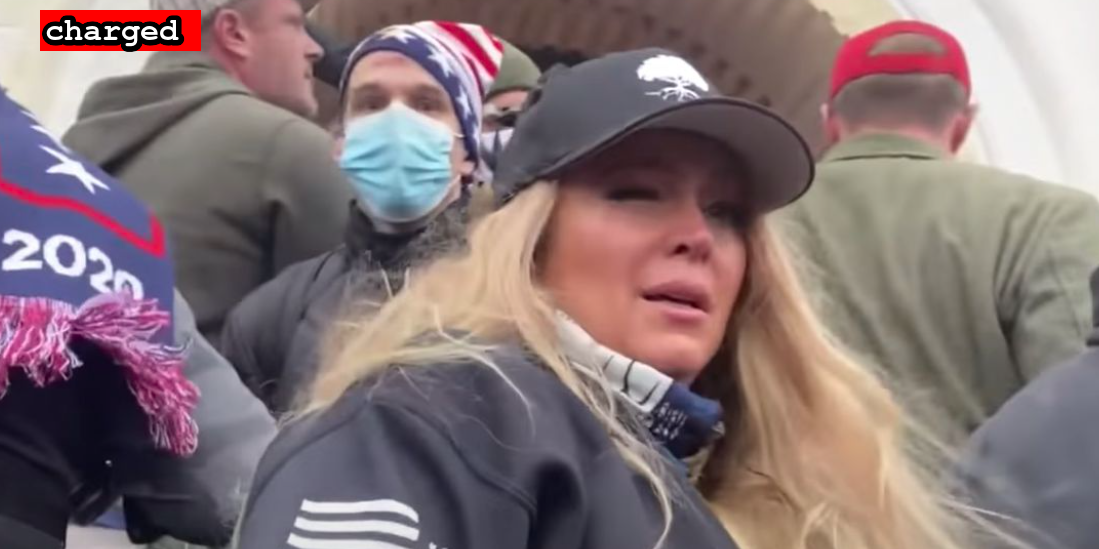
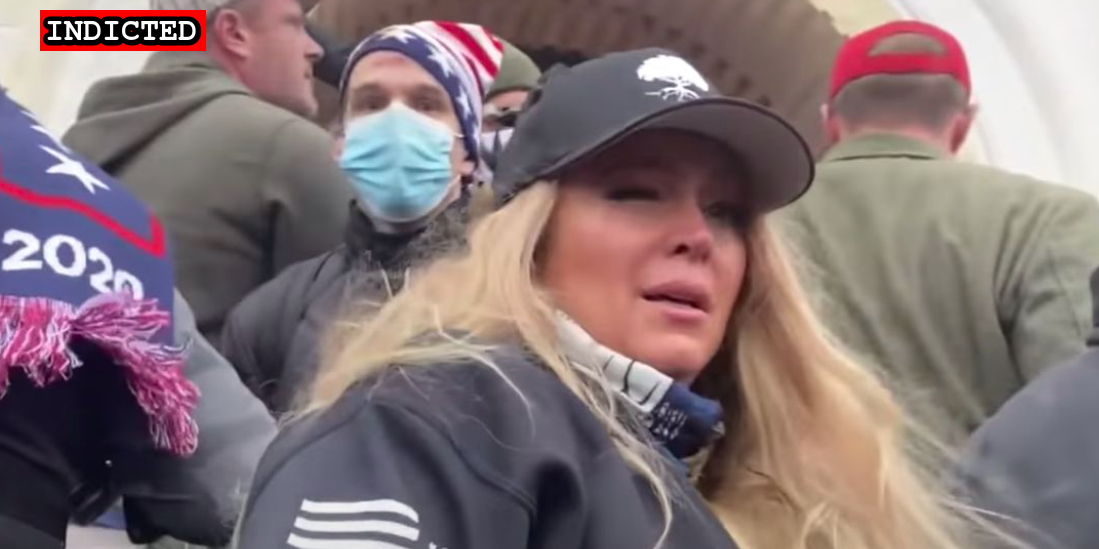
More indictment stuff

Changed region(s): [[0.0309, 0.031, 0.1856, 0.0929]]

diff --git a/docs/_suspects/timothy-hale-cusanelli.md b/docs/_suspects/timothy-hale-cusanelli.md
@@ -1,21 +1,21 @@
 ---
 name: Timothy Hale-Cusanelli
-aka:
+aka: Based Hermes
 residence: New Jersey
-status: Charged
+status: Indicted
 date: 2021-01-17
 age: 30
 occupation: U.S. Army Reserves, U.S. Navy Contractor
 affiliations: U.S. Military
 jurisdiction: Federal
-before: arrest.jpg
+before: timothy-hale-cusanelli.jpg
 after:
 perpwalk:
 booking:
 courtroom: timothy-hale-cusanelli.jpg
 layout: suspect
 title: Timothy Hale-Cusanelli charged on January 17th, 2021
-image: /images/preview/arrest.jpg
+image: /images/preview/timothy-hale-cusanelli.jpg
 description: Click for latest case details. Suspects innocent until proven guilty.
 quote: "Trust the plan, major announcement soon."
 author: seditiontrack
@@ -25,3 +25,4 @@ published: true
 - [NewsReport](https://www.app.com/story/news/crime/2021/01/17/timothy-louis-hale-cusanelli-colts-neck-man-military-contractor-capitol-pro-trump-mob/4199037001/)
 - [Complaint](https://www.justice.gov/opa/page/file/1356061/download)
 - [Statement of Facts](https://www.justice.gov/opa/page/file/1356066/download)
+- [Indictment](https://www.courtlistener.com/recap/gov.uscourts.dcd.226943/gov.uscourts.dcd.226943.9.0_2.pdf)

diff --git a/docs/_suspects/stephanie-hazelton.md b/docs/_suspects/stephanie-hazelton.md
@@ -23,3 +23,4 @@ published: true
 - [News Report](https://www.inquirer.com/news/new-jersey/stephanie-hazelton-capitol-insurrection-medford-new-jersey-rioters-20210122.html?utm_source=t.co&cid=Philly.com+Twitter&utm_campaign=Philly.com+Twitter+Account&utm_medium=social)
 - [Incriminating Evidence (VIDEO)](https://www.inquirer.com/news/new-jersey/stephanie-hazelton-ayla-wolf-south-jersey-us-capitol-riot-anti-vax-20210119.html)
 - [Complaint](https://extremism.gwu.edu/sites/g/files/zaxdzs2191/f/Stephanie%20Hazelton%20Criminal%20Complaint.pdf)
+- [Indictment](https://www.courtlistener.com/recap/gov.uscourts.dcd.226768/gov.uscourts.dcd.226768.5.0.pdf)

diff --git a/docs/_suspects/edward-lang.md b/docs/_suspects/edward-lang.md
@@ -1,6 +1,6 @@
 ---
 name: Edward Lang
-aka:
+aka: Jake Lang
 residence: New York
 status: Indicted
 date: 2021-01-16
